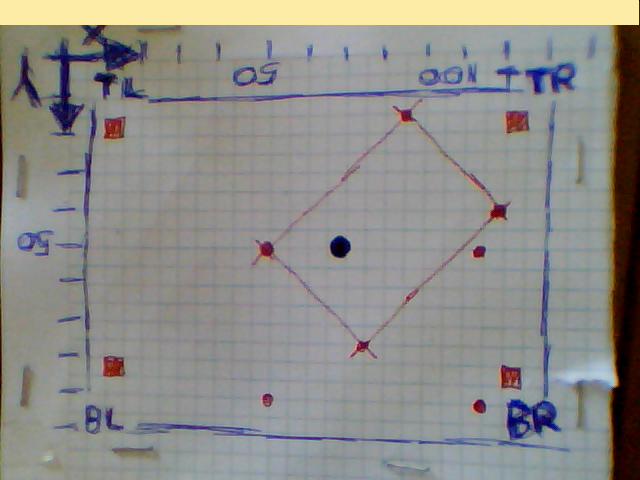
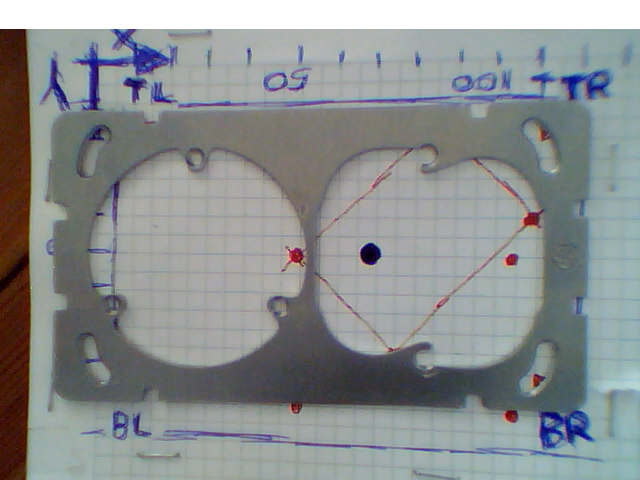
Measure Frame,Save Frame Load Frame load LED

diff --git a/PY_Samples/Cam/Get_Cam_Window_V4.py b/PY_Samples/Cam/Get_Cam_Window_V4.py
@@ -23,6 +23,7 @@ import csv
 
 import cam_annotate
 import cam_menu
+import subprocess
 ##=============================================================================
 def GetImageDimensions(image):
 
@@ -57,6 +58,7 @@ def ImportMountingFrame(sPathFile):
             for row in csvReader:
                 print('Read CSV:',row)
 
+
                 MP_WORLD=  MP_WORLD + [(row[0],row[1],row[2])]
                 i=i+1
      return MP_WORLD
@@ -66,7 +68,7 @@ def ImportMountingFrame(sPathFile):
 
 MountingFrame_TRANS_WORLD= [['TL',1,1],['BL',1,10],['BR',10,10],['TR',10,1]] #mounting frame world
 MountingFrame_CAMERA= [['TL',1,1],['BL',1,10],['BR',10,10],['TR',10,1]]#mounting frame world
-LED_TRANS_WORLD= [['TL',1,1],['BL',1,10],['BR',10,10],['TR',10,1]] #mounting frame world
+LED_TRANS_WORLD= [['TL',1,1,5],['BL',1,10,5],['BR',10,10,5],['TR',10,1,5]] #mounting frame world
 
 #==============================================================================
 ##=============================================================================
@@ -113,7 +115,7 @@ def mousePoints(event,x,y,flags,params):
 ##=============================================================================
 sPathfile_ExportImage1='grey_img_left.png'
 sPathfile_ExportImage2='grey_img_right.png'
-sPathfile_VideoSubstituteImage='grey_img_right.png'
+sPathfile_VideoSubstituteImage='grey_img_substitute.png'
 
 sPathFileImport='MountingFrame_TRANS_WORLD.csv'
 sPathFileExport='MountingFrame_CAMERA.csv'
@@ -136,7 +138,7 @@ if image_source!=2 :
     ret, frame = cap.read()
     grey_img = cv2.cvtColor(frame, cv2.IMREAD_COLOR)
 else:
-    grey_img = cv2.imread('grey_img.png')
+    grey_img = cv2.imread(sPathfile_VideoSubstituteImage)
 #------------------------------------------------------------------------------
 # Get Image dimensions
 aImageDim=GetImageDimensions(grey_img)
@@ -155,7 +157,7 @@ while(True):
         #grey_img = cv2.cvtColor(frame, cv2.COLOR_BGR2GRAY)
         grey_img = cv2.cvtColor(frame, cv2.IMREAD_COLOR)
     else:
-        grey_img = cv2.imread('grey_img_1.png')
+        grey_img = cv2.imread(sPathfile_VideoSubstituteImage)
 #------------------------------------------------------------------------------
     # resize image
     # grey_img = cv2.resize(grey_img, dim, interpolation = cv2.INTER_AREA)
@@ -184,8 +186,8 @@ while(True):
         if i == 3 :
             cv2.line(img= grey_img_2, pt1=(int(PTS[1]), int(PTS[2])), pt2=(int(PTS_Start[1]), int(PTS_Start[2])), color=(0, 255, 0), thickness=1, lineType=8, shift=0)
 
-    for PTS,i in zip(LED_TRANS_WORLD,range(0,len(LED_TRANS_WORLD)-1)):  # zip uses shortes of two lists
-        nDimCroshair=5
+    for PTS,i in zip(LED_TRANS_WORLD,range(0,len(LED_TRANS_WORLD))):  # zip uses shortes of two lists
+        nDimCroshair=10   #LED_TRANS_WORLD[i][3]
         nCircle=1
         cv2.circle(grey_img_2,(int(LED_TRANS_WORLD[i][1]),int(LED_TRANS_WORLD[i][2])), nDimCroshair, (0,0,255),nCircle)
 
@@ -213,6 +215,12 @@ while(True):
         sPathFile=sPathFileImportLED_WORLD
         LED_TRANS_WORLD=ImportMountingFrame(sPathFile)
         cam_menu.cam_menu.aCMD[0]="DONE"
+
+    if sCMD=='CALC':
+        print('====ICalculate Transformations==============================================')
+        print('Transformations.py')
+
+        subprocess.call("Transformations.py", shell=True)
 
 
     if sCMD=='SAVE PTS':

diff --git a/PY_Samples/Cam/cam_menu.py b/PY_Samples/Cam/cam_menu.py
@@ -17,7 +17,7 @@ import csv
 class cam_menu:
 
     ##  Class variables: This variable is shared between all objects of a class
-    menu=["QUIT","SAVE PTS","LOAD PTS","LOAD LED","SAVE IMG","POINTS:" ,"BL","BR","TR","TL"]
+    menu=["BL","BR","TR","TL","-","SAVE PTS","CALC","LOAD PTS","LOAD LED","SAVE IMG" ,"QUIT"]
     ## command history and command latest
     aCMD=["NULL","QUIT1","QUIT2"]
 
@@ -27,6 +27,7 @@ class cam_menu:
 
         ## class attributes
         self.menue_items=len(self.menu) + 1
+        self.menue_width=int(image.shape[1])
         self.width_button = int(image.shape[1] / self.menue_items)
         self.height_button = int(image.shape[0] / 20)
         self.spacing_button = int(image.shape[1] / self.menue_items)
@@ -50,6 +51,12 @@ class cam_menu:
         font = cv2.FONT_HERSHEY_SIMPLEX # font
         fontScale = 0.3 # fontScale
         thickness = 1 # Line thickness of 2 px
+
+        start_point = (1, 1)
+        end_point = (self.menue_width, height_button)
+        color2 = (200, 200, 200)
+        thickness2 = -1   # Thickness of -1 will fill the entire shape
+        image = cv2.rectangle(image, start_point, end_point, color2, thickness2)
 
         for i in range(0, self.menue_items-1):
                 start_point = (1+spacing_button*i, 1)

diff --git a/PY_Samples/Cam/Transformations.py b/PY_Samples/Cam/Transformations.py
@@ -1,5 +1,5 @@
 #-------------------------------------------------------------------------------
-# Name:        module1
+# Name:        Transformations.py
 # Purpose:
 #
 # Author:      SESA237770
@@ -86,7 +86,7 @@ if __name__ == '__main__':
 
         LXgeo=int(PTS_GEOM[0][1]) -int(PTS_GEOM[3][1])
         LXcam=int(PTS_CAM[0][1]) -int(PTS_CAM[3][1])
-        scale= abs(int(LXcam/LXgeo))
+        scale= abs(int(LXcam/LXgeo*100))
 
         offsetX=PTS_CAM[0][1]
         offsetY=PTS_CAM[0][2]
@@ -115,8 +115,8 @@ if __name__ == '__main__':
             PTS_TRANS_WORLD=PTS_GEOM
             for i in range(0,len(PTS_GEOM)):
 
-                tempX=int(PTS_GEOM[i][1])*scale +1*int(offsetX)
-                tempY= int(PTS_GEOM[i][2])*scale +1*int(offsetY)
+                tempX=int(PTS_GEOM[i][1])*scale/100 +1*int(offsetX)
+                tempY= int(PTS_GEOM[i][2])*scale/100 +1*int(offsetY)
                 tempX=str(int(tempX))
                 tempY= str(int(tempY))
 
